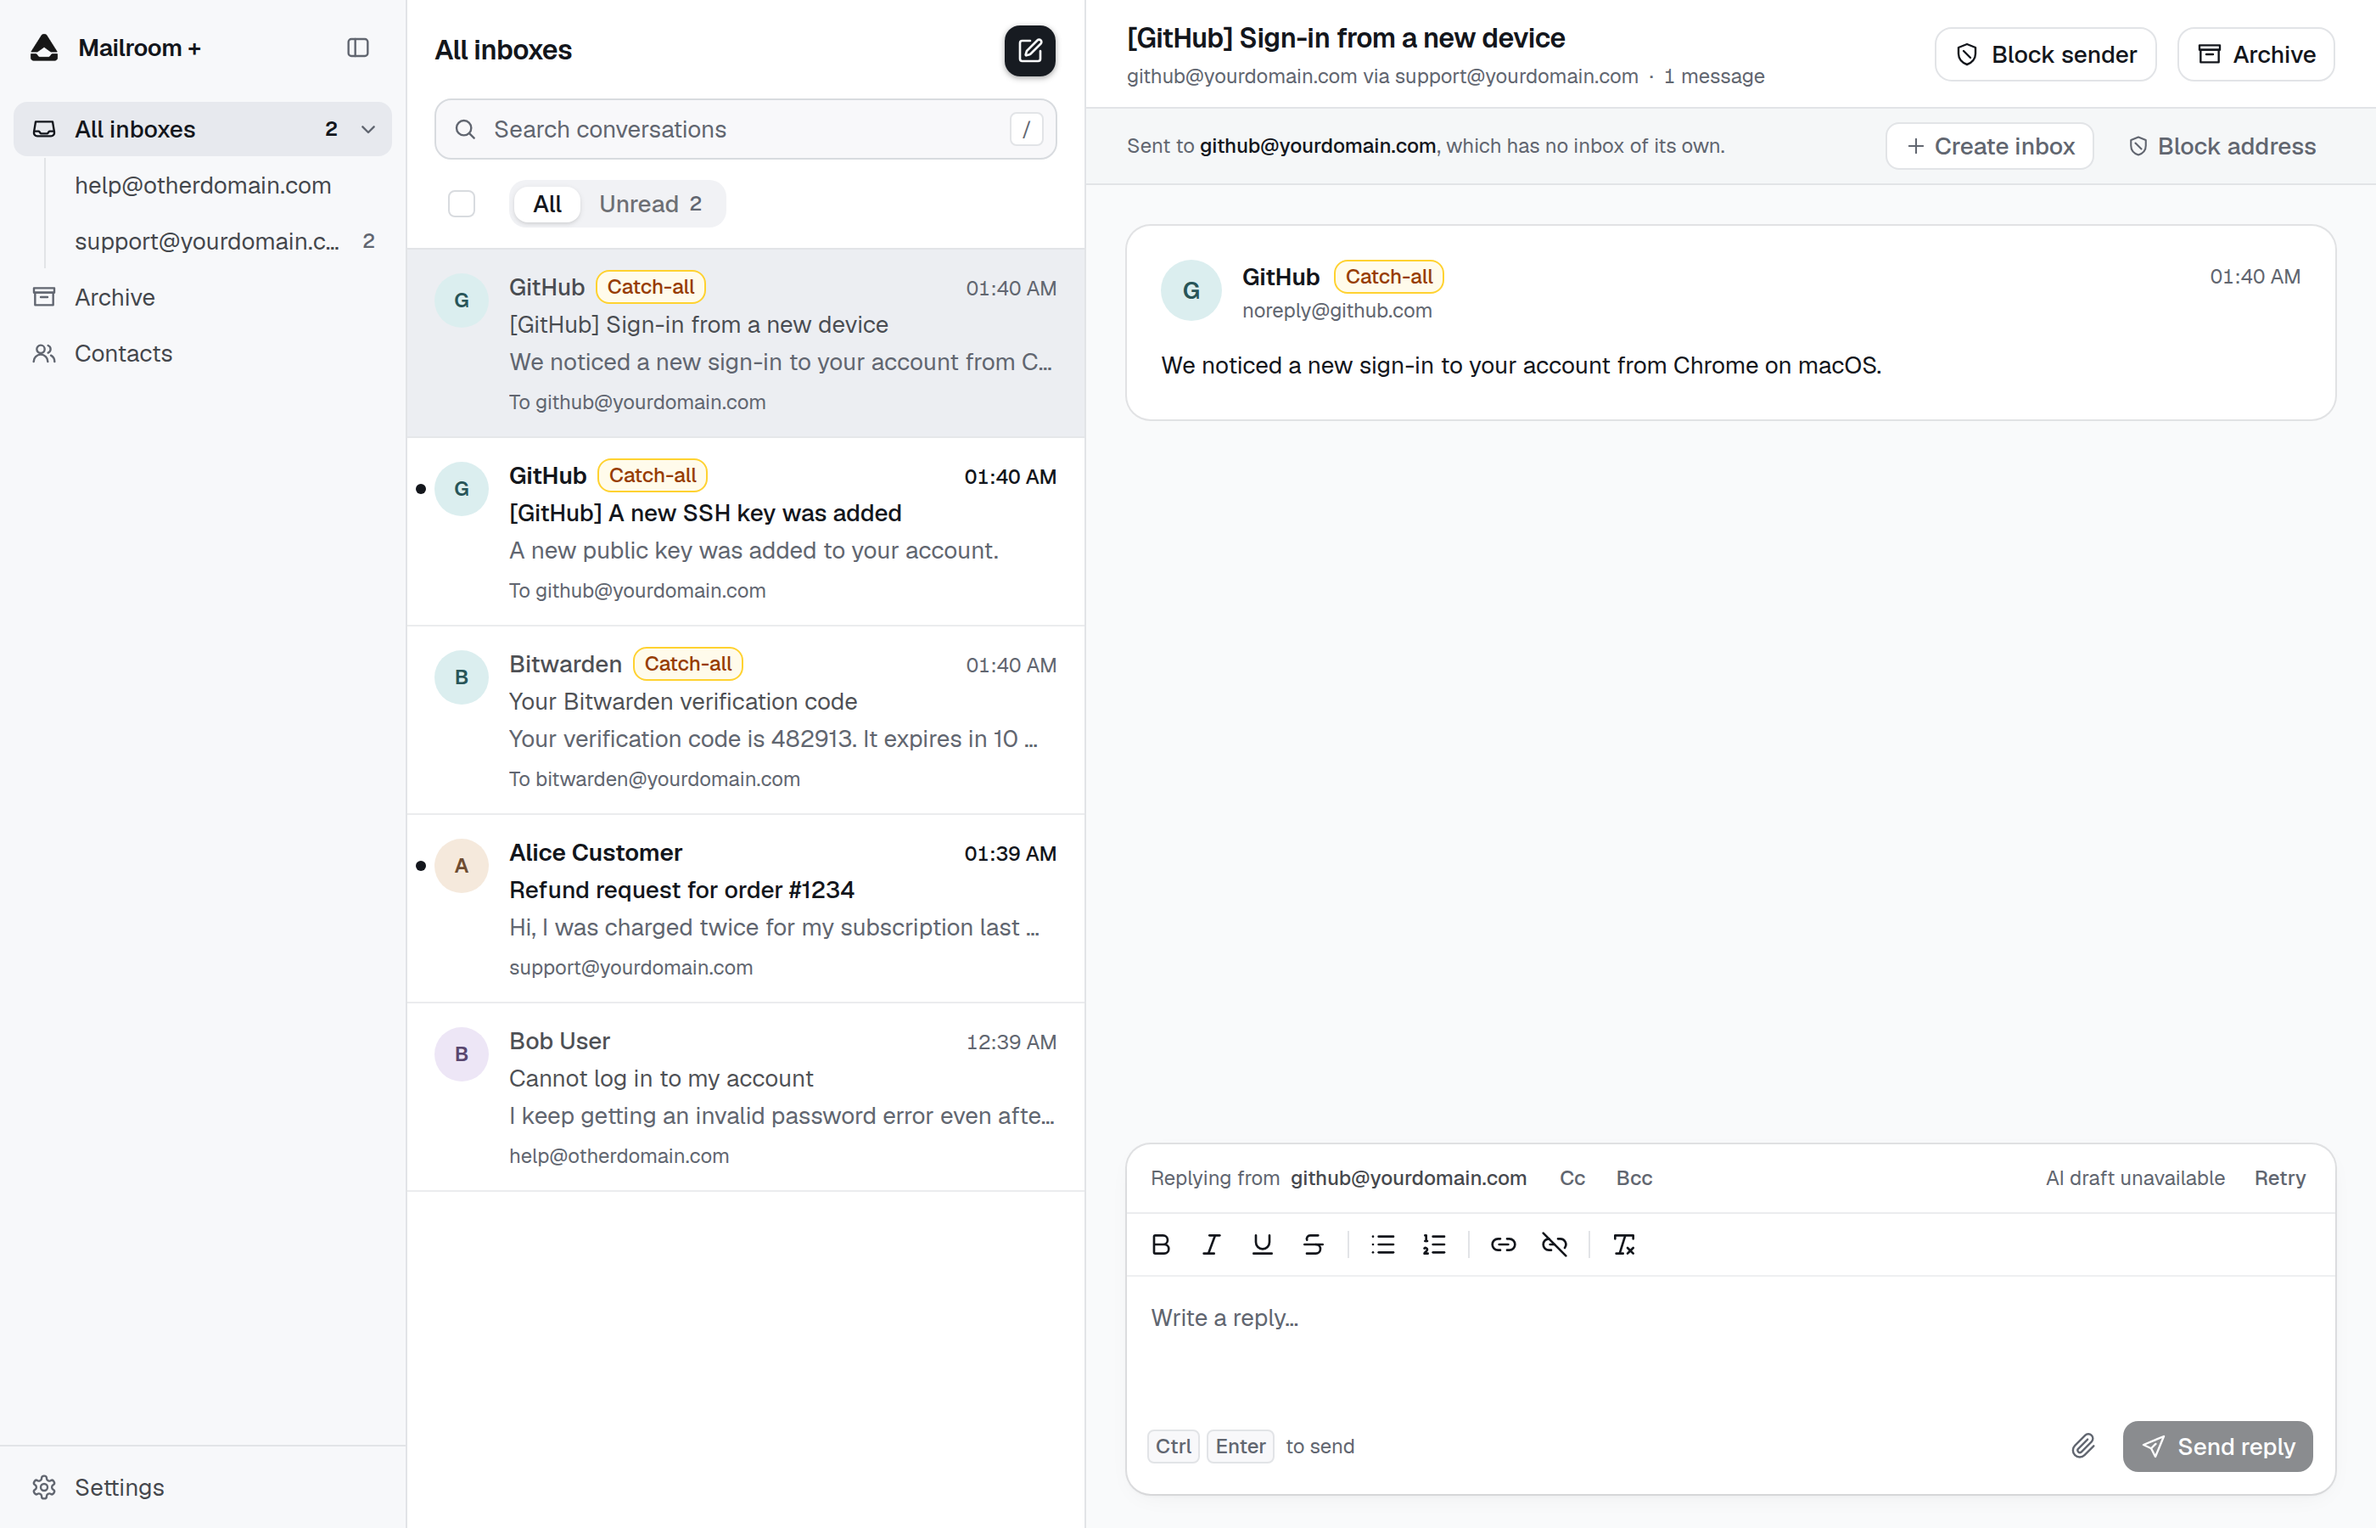
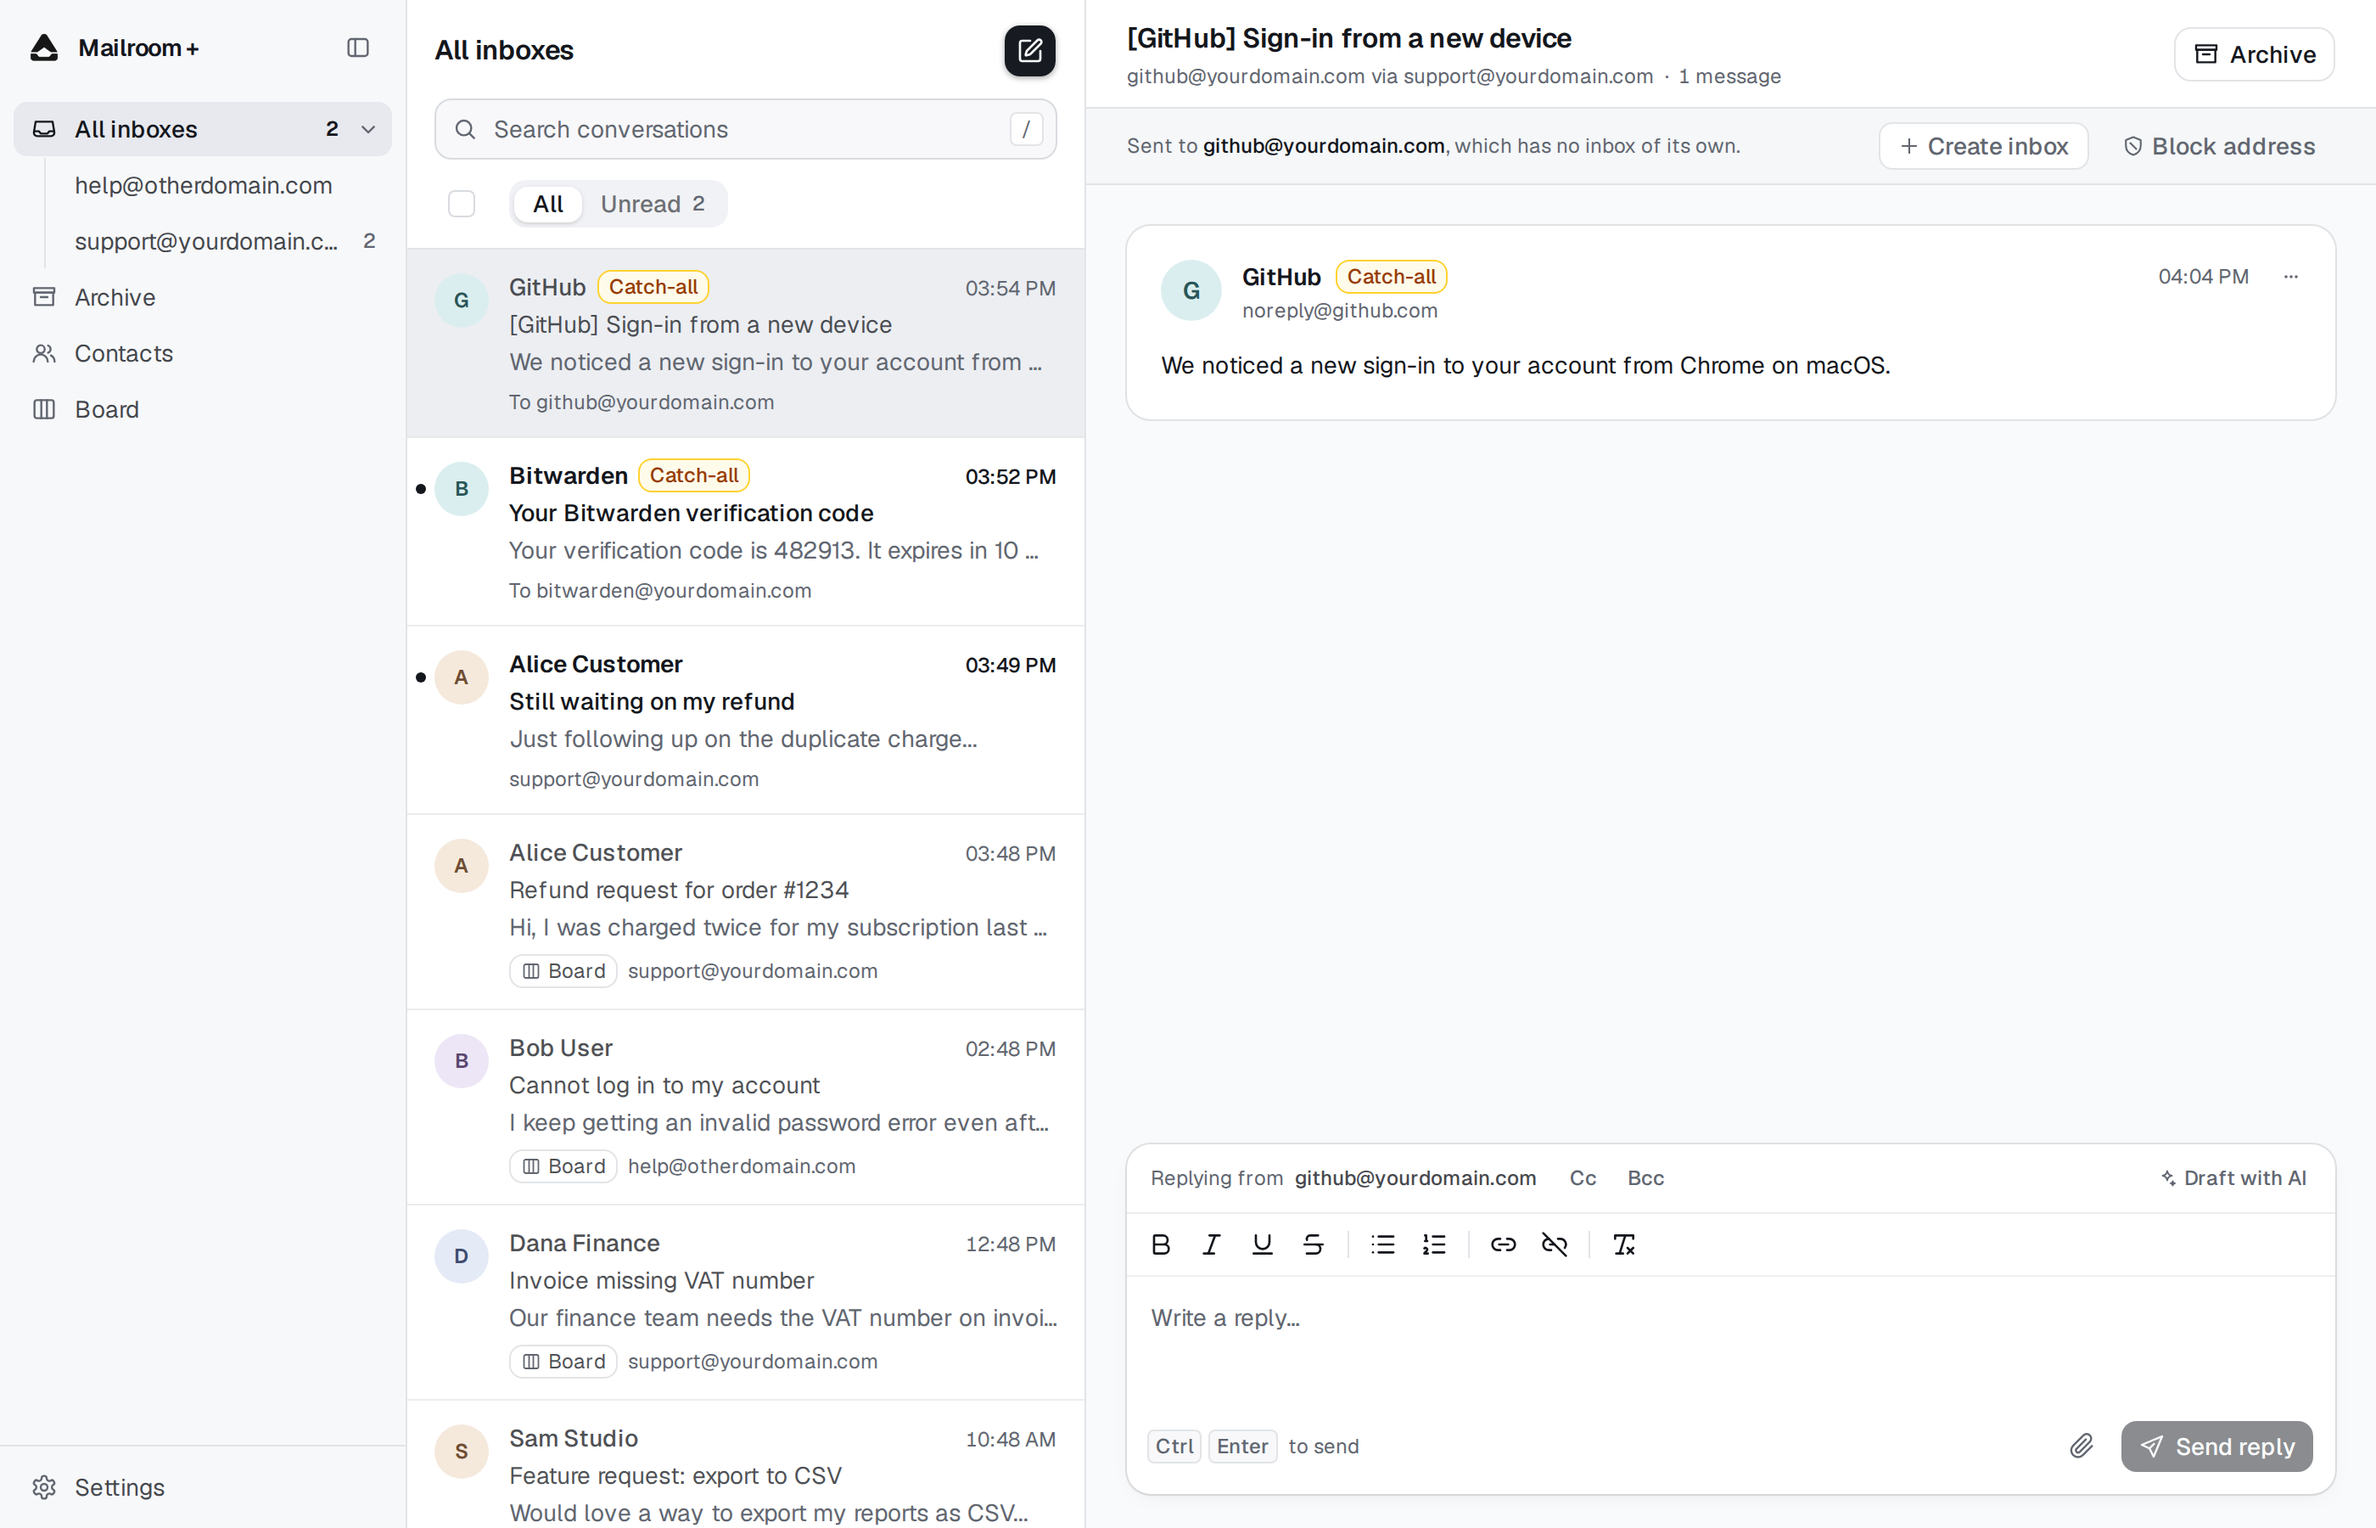
Refresh README screenshots and add Board screenshots
Claude-Session: https://claude.ai/code/session_01MhDiNmPpkbBj8vTkz7xPGz

diff --git a/README.md b/README.md
@@ -53,6 +53,10 @@ Routing, D1, R2 and Web Push.
 
 <img width="2800" height="1800" alt="Catch-all conversations in Mailroom +" src="docs/images/catch-all.png" />
 
+<img width="2800" height="1800" alt="The Board in Mailroom +" src="docs/images/board.png" />
+
+<img width="2800" height="1800" alt="A board item with notes and related conversations" src="docs/images/board-item.png" />
+
 ### Automation
 
 - **AI reply drafts.** Per-inbox drafting with custom instructions and
